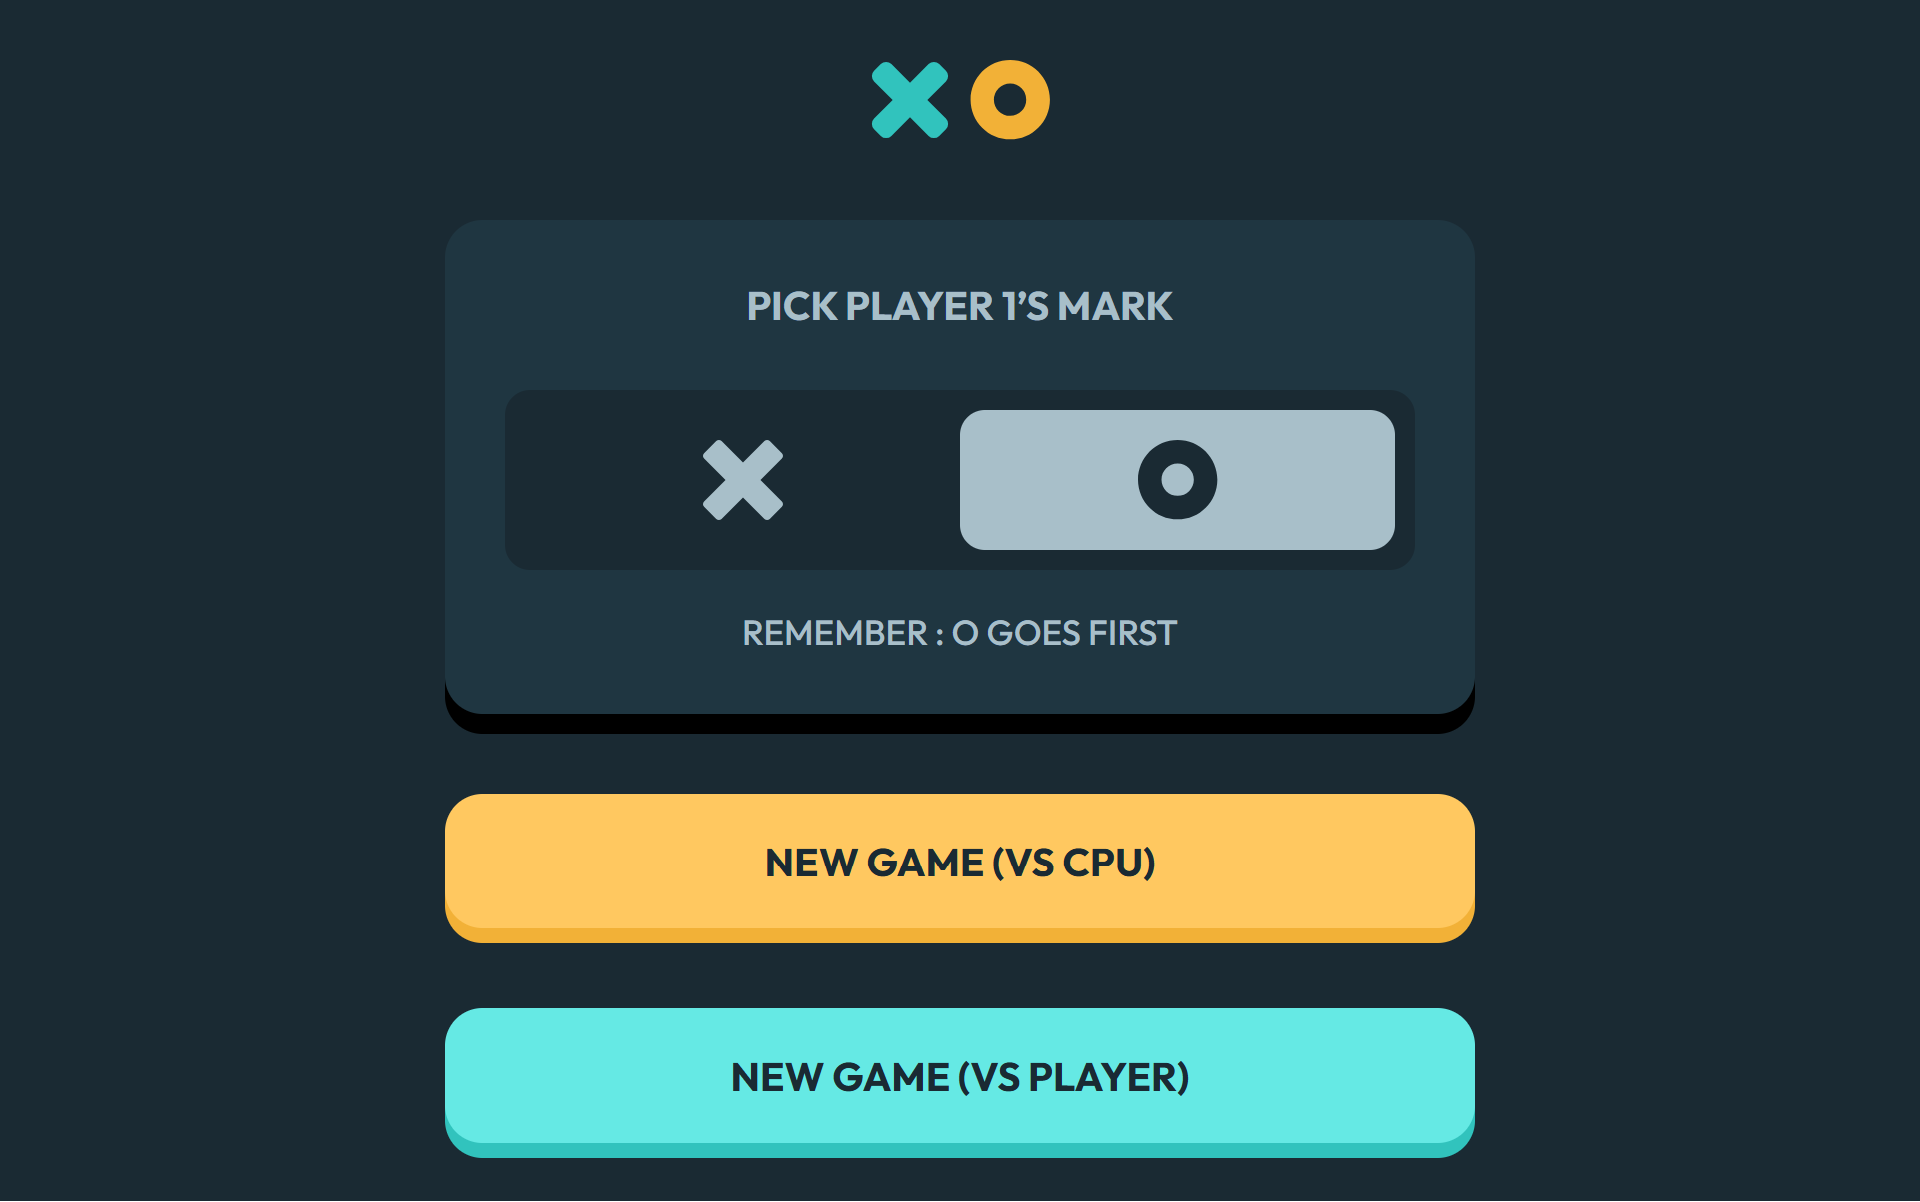
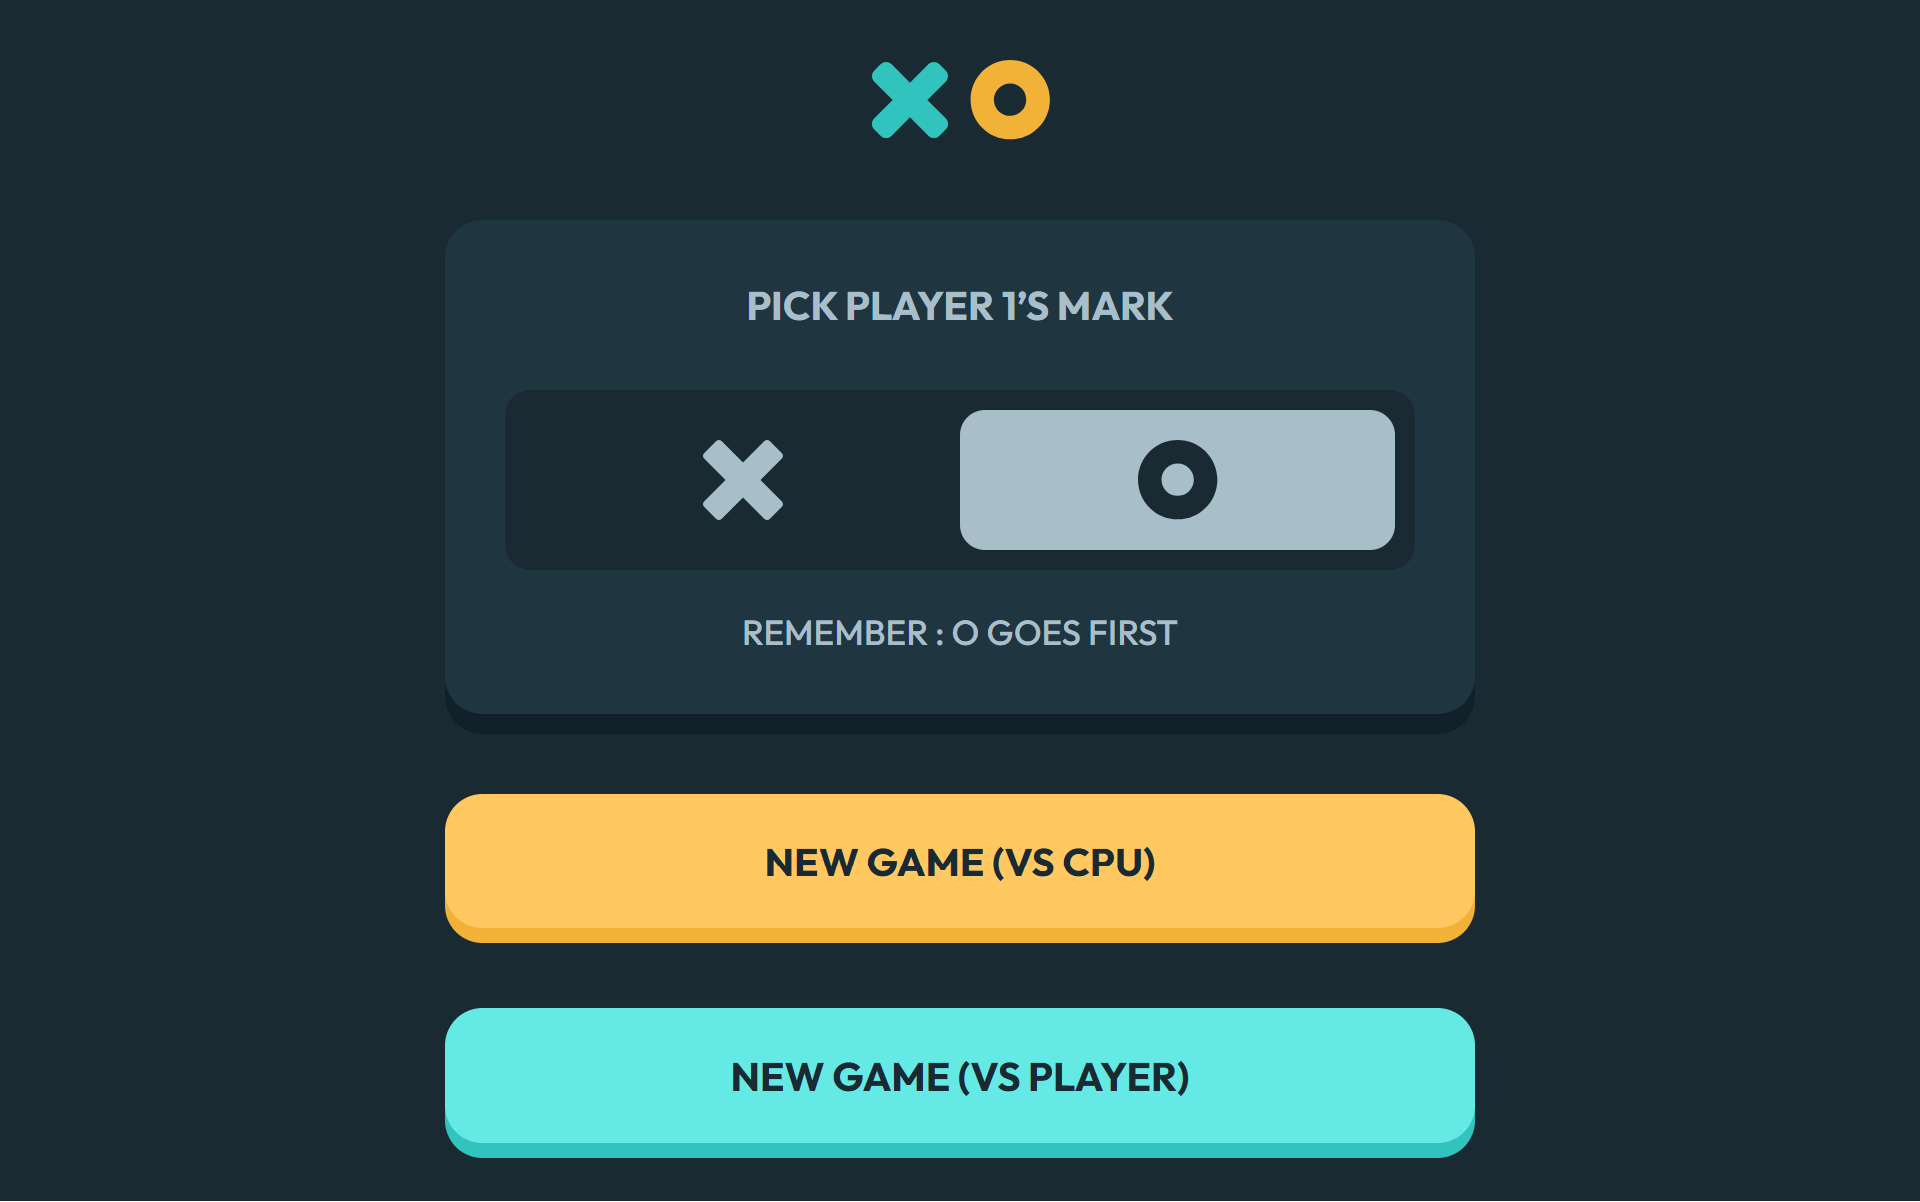
update

Changed region(s): [[0.2188, 0.5849, 0.7812, 0.6156]]

diff --git a/src/assets/sass/components/_inicio.scss b/src/assets/sass/components/_inicio.scss
@@ -26,7 +26,7 @@
         background-color: $azul-oscuro-2;
         border-radius: 15px;
         padding: 24px;
-        box-shadow: 0 8px 0 black ;
+        box-shadow: 0 8px 0 #10212a;
 
         &-title {
             margin-bottom: 24px;

diff --git a/css/style.css b/css/style.css
@@ -56,7 +56,7 @@
   background-color: #1F3641;
   border-radius: 15px;
   padding: 24px;
-  box-shadow: 0 8px 0 black;
+  box-shadow: 0 8px 0 #10212a;
 }
 .inicio_selectPlayer-title {
   margin-bottom: 24px;
